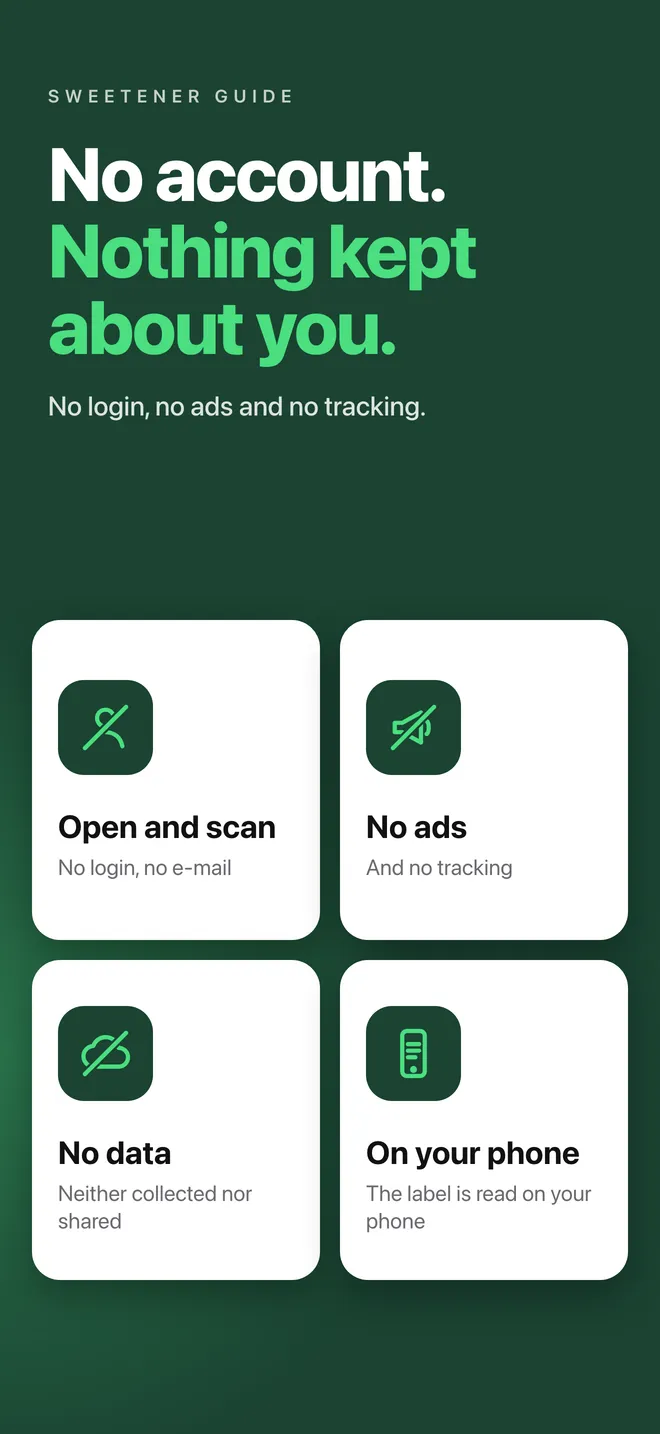
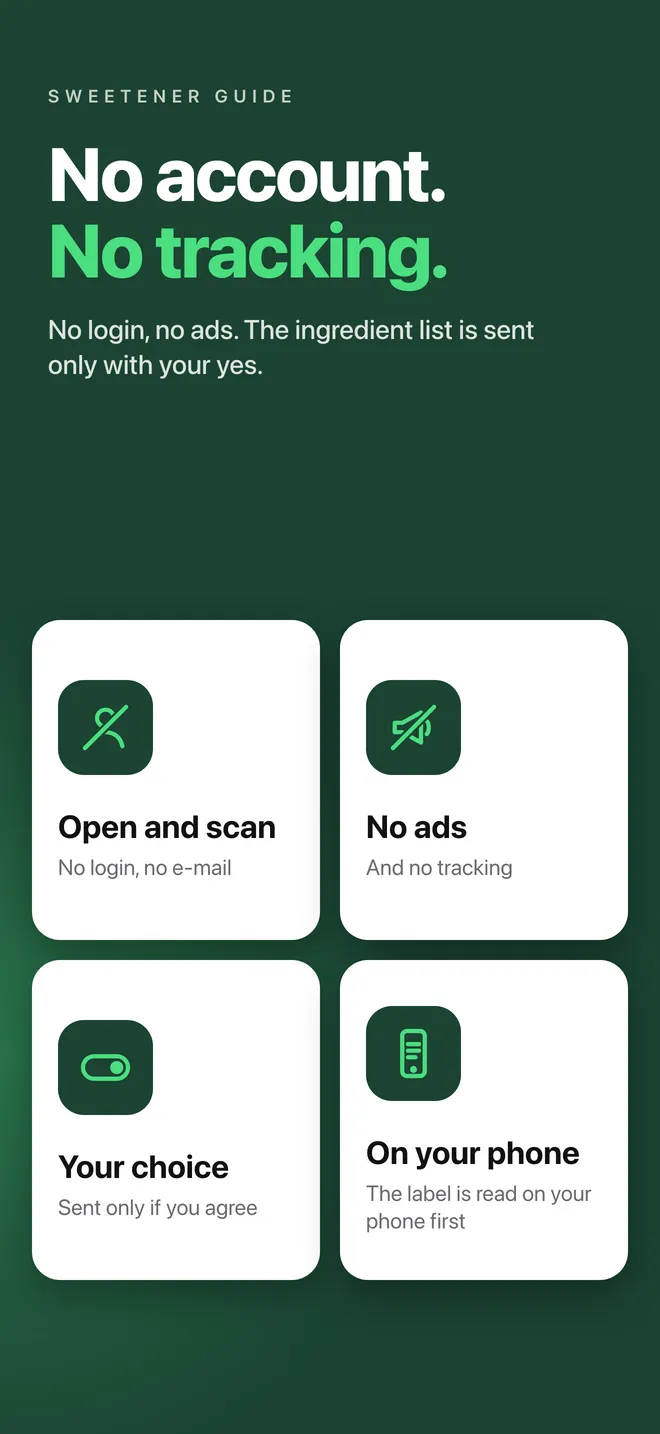
Describe the app as version 1.1 has it
The front page said the photo never leaves the phone and that there is no
server. With the extra check of the ingredient list in 1.1 that is only true
without the customer's yes, so the first trust card, the note under the cards
and the offline card now say what is sent, and that it is sent only on a yes.
Step three speaks of the effect on blood sugar, as the app does.

The gallery shows the current App Store frames, and frame 5's alt text follows
its new caption. The privacy policy says the app asks after the first scan,
not when the scanner first opens. The support page no longer says the app
sends nothing by itself.

Changed region(s): [[0.0606, 0.1534, 0.8182, 0.3068], [0.0909, 0.675, 0.3939, 0.8591], [0.6667, 0.8285, 0.697, 0.8591]]

diff --git a/privacy-i18n.js b/privacy-i18n.js
@@ -7,7 +7,7 @@ window.pageTranslations = {
     metaDescription: "What The Sweetener Guide does and does not collect, in plain language.",
     backToSite: "Back to the front page",
     legalTitle: "Privacy policy",
-    legalUpdated: "Last updated 13 November 2026",
+    legalUpdated: "Last updated 14 November 2026",
     legalSummary:
       "The short version: the app reads the ingredient list on your phone, and we never learn what you scanned. If you say yes to the extra check of the ingredient list, the ingredient list — the photo and the text the app read — is sent to an AI service that reads it again, and the app sends anonymous statistics about how the scan went. Without your yes, nothing about your scans leaves your phone unless you send us feedback yourself. The detail is below.",
     s1Title: "Who is responsible",
@@ -26,7 +26,7 @@ window.pageTranslations = {
       "The request carries no identifier: no account, no device ID, no advertising ID. As the host, GitHub handles the request technically and can see the IP address it came from and the time it arrived, under its own privacy statement. We never see any of it, and there is nothing in the request that says anything about you or what you scanned.",
     s3dTitle: "Extra check of the ingredient list (only with your yes)",
     s3dBody:
-      "The first time you open the scanner, the app asks whether you would like an extra check of the ingredient list. If you say yes, after each scan the photo of the ingredient list and the text the app read from it are sent to TypeSafe (typesafe.ai) in the USA, an AI service that reads the list again and answers which sweeteners and sugars it names. The answer is used only to find what the app would otherwise have missed. Your name, email address, location and anything else about you are not sent, and the photo is used only to read the label. TypeSafe states in its own privacy policy that what it receives is not used to train its models.",
+      "After your first scan, the app asks whether you would like an extra check of the ingredient list. If you say yes, after each scan the photo of the ingredient list and the text the app read from it are sent to TypeSafe (typesafe.ai) in the USA, an AI service that reads the list again and answers which sweeteners and sugars it names. The answer is used only to find what the app would otherwise have missed. Your name, email address, location and anything else about you are not sent, and the photo is used only to read the label. TypeSafe states in its own privacy policy that what it receives is not used to train its models.",
     s3dBody2:
       "The ingredient list goes through our own server at Cloudflare, which checks that the request comes from a genuine copy of the app (using Apple's App Attest) and passes it on. Our server keeps neither the photo nor the text. You can turn the extra check off at any time in Settings → “Extra check of the ingredient list”. Nothing more is sent, and the app works as before.",
     s3eTitle: "Anonymous statistics (only with your yes)",
@@ -87,7 +87,7 @@ window.pageTranslations = {
     metaDescription: "Hvad Sødeguiden indsamler og ikke indsamler, i et almindeligt sprog.",
     backToSite: "Tilbage til forsiden",
     legalTitle: "Privatlivspolitik",
-    legalUpdated: "Senest opdateret 13. november 2026",
+    legalUpdated: "Senest opdateret 14. november 2026",
     legalSummary:
       "Kort fortalt: Appen læser ingredienslisten på din telefon, og vi får ikke at vide, hvad du har scannet. Siger du ja til ekstra kontrol af ingredienslisten, sendes ingredienslisten — billedet og den tekst, appen har læst — til en AI-tjeneste, der læser den en gang til, og appen sender anonym statistik om, hvordan scanningen gik. Uden dit ja forlader intet om dine scanninger din telefon, medmindre du selv sender os feedback. Detaljerne står nedenfor.",
     s1Title: "Hvem er ansvarlig",
@@ -106,7 +106,7 @@ window.pageTranslations = {
       "Forespørgslen indeholder ingen identifikator: ingen konto, intet enheds-id, intet annonce-id. Som vært håndterer GitHub forespørgslen teknisk og kan se, hvilken IP-adresse den kom fra, og hvornår den kom, efter deres egen privatlivspolitik. Vi ser det aldrig, og der er intet i forespørgslen, der siger noget om dig eller om, hvad du har scannet.",
     s3dTitle: "Ekstra kontrol af ingredienslisten (kun med dit ja)",
     s3dBody:
-      "Første gang du åbner scanneren, spørger appen, om du vil have ekstra kontrol af ingredienslisten. Siger du ja, sendes billedet af ingredienslisten og den tekst, appen har læst fra det, efter hver scanning til TypeSafe (typesafe.ai) i USA, en AI-tjeneste, der læser listen en gang til og svarer, hvilke sødestoffer og sukkerarter den nævner. Svaret bruges kun til at finde det, appen ellers ville have overset. Der sendes ikke dit navn, din e-mailadresse, din placering eller andet om dig, og billedet bruges kun til at læse etiketten. TypeSafe oplyser i sin egen privatlivspolitik, at det, den modtager, ikke bruges til at træne dens modeller.",
+      "Efter din første scanning spørger appen, om du vil have ekstra kontrol af ingredienslisten. Siger du ja, sendes billedet af ingredienslisten og den tekst, appen har læst fra det, efter hver scanning til TypeSafe (typesafe.ai) i USA, en AI-tjeneste, der læser listen en gang til og svarer, hvilke sødestoffer og sukkerarter den nævner. Svaret bruges kun til at finde det, appen ellers ville have overset. Der sendes ikke dit navn, din e-mailadresse, din placering eller andet om dig, og billedet bruges kun til at læse etiketten. TypeSafe oplyser i sin egen privatlivspolitik, at det, den modtager, ikke bruges til at træne dens modeller.",
     s3dBody2:
       "Ingredienslisten sendes gennem vores egen server hos Cloudflare, som tjekker, at forespørgslen kommer fra en ægte udgave af appen (med Apples App Attest), og sender den videre. Vores server gemmer hverken billedet eller teksten. Du kan slå ekstra kontrol fra når som helst under Indstillinger → »Ekstra kontrol af ingredienslisten«. Så sendes der intet mere, og appen virker som før.",
     s3eTitle: "Anonym statistik (kun med dit ja)",

diff --git a/script.js b/script.js
@@ -28,7 +28,7 @@ const translations = {
     frameAlt4:
       "You get the facts. You decide. A result telling you to check carbohydrates and sugars on the pack.",
     frameAlt5:
-      "No account. Nothing kept about you. No login, no ads, no data collected.",
+      "No account. No tracking. No login, no ads. The ingredient list is sent only with your yes.",
     frameAlt6:
       "Try it on your own groceries. The first 10 scans are free.",
     howKicker: "How it works",
@@ -42,20 +42,20 @@ const translations = {
       "Hold the label in good light and keep the text inside the frame.",
     stepThreeTitle: "Check the result",
     stepThreeText:
-      "The app shows what it found and a simple glucose impact bar, with the details behind it.",
+      "The app shows what it found and how it affects blood sugar, with the details behind it.",
     trustKicker: "Why you can rely on it",
     trustTitle: "Built to be trusted, not clever.",
-    trustOneTitle: "We never see what you scanned",
+    trustOneTitle: "Nothing is sent without your yes",
     trustOneText:
-      "The photo stays on your phone and your phone reads the text itself. There is no server for it to be sent to — the app only ever downloads the list. The photo leaves your phone only if you email it to us as feedback yourself.",
+      "Your phone reads the label itself, and we never learn what you scanned. The app can offer an extra check, where the photo and the text are sent to an AI service that reads the list once more. That happens only if you say yes, and you can turn it off in Settings.",
     trustTwoTitle: "Written by people who live with it",
     trustTwoText:
       "The list is put together by Danes with type 2 diabetes. The app always shows why an ingredient got its rating, so you can weigh up the reasoning yourself.",
     trustThreeTitle: "Works with no signal",
     trustThreeText:
-      "The whole list is built into the app. It works from the very first launch — at the back of a shop, in a basement freezer aisle, or on holiday.",
+      "The whole list is built into the app. It works from the very first launch — at the back of a shop, in a basement freezer aisle, or on holiday. Only the extra check needs a connection.",
     trustNote:
-      "The only figures we ever see are the aggregated download and usage counts that Apple and Google publish to every app in their stores. Nothing in them relates to what you scanned.",
+      "Besides the download and usage counts that Apple and Google give every app, we see anonymous statistics about how scans went, and only if you said yes to the extra check. They hold no photo, no text and nothing that identifies you.",
     downloadKicker: "Download",
     downloadTitle: "Install on your phone.",
     downloadText:
@@ -101,7 +101,7 @@ const translations = {
     frameAlt4:
       "Du får overblikket. Du vælger. Et resultat, der beder dig tjekke kulhydrat og sukkerarter på pakken.",
     frameAlt5:
-      "Ingen konto. Intet gemt om dig. Intet login, ingen reklamer, ingen data indsamlet.",
+      "Ingen konto. Ingen sporing. Ingen login, ingen reklamer. Ingredienslisten sendes kun med dit ja.",
     frameAlt6:
       "Prøv den på dine egne varer. De første 10 scanninger er gratis.",
     howKicker: "Sådan virker det",
@@ -115,20 +115,20 @@ const translations = {
       "Hold etiketten i godt lys, og sørg for at teksten er inden for rammen.",
     stepThreeTitle: "Tjek resultatet",
     stepThreeText:
-      "Appen viser, hvad den fandt, og en enkel blodsukkerbjælke med detaljerne bag.",
+      "Appen viser, hvad den fandt, og hvordan det påvirker blodsukkeret, med detaljerne bag.",
     trustKicker: "Derfor kan du stole på den",
     trustTitle: "Bygget til at være til at stole på.",
-    trustOneTitle: "Vi ser aldrig, hvad du har scannet",
+    trustOneTitle: "Intet sendes uden dit ja",
     trustOneText:
-      "Billedet bliver på din telefon, og telefonen læser selv teksten. Der er ingen server, det kan blive sendt til — appen henter kun listen. Billedet forlader kun din telefon, hvis du selv sender det til os som feedback på e-mail.",
+      "Telefonen læser selv etiketten, og vi får ikke at vide, hvad du har scannet. Appen kan tilbyde en ekstra kontrol, hvor billedet og teksten sendes til en AI-tjeneste, der læser listen en gang til. Det sker kun, hvis du siger ja, og du kan slå det fra i Indstillinger.",
     trustTwoTitle: "Skrevet af nogen, der selv lever med det",
     trustTwoText:
       "Listen er sat sammen af danskere med type 2-diabetes. Appen viser altid, hvorfor en ingrediens har fået sin vurdering, så du selv kan tage stilling til begrundelsen.",
     trustThreeTitle: "Virker uden signal",
     trustThreeText:
-      "Hele listen ligger i appen. Den virker fra allerførste start — bagest i butikken, ved frostvarerne i kælderen eller på ferien.",
+      "Hele listen ligger i appen. Den virker fra allerførste start — bagest i butikken, ved frostvarerne i kælderen eller på ferien. Kun den ekstra kontrol kræver forbindelse.",
     trustNote:
-      "De eneste tal, vi nogensinde ser, er de sammenlagte downloads og brugstal, som Apple og Google giver alle apps i deres butikker. Intet i dem handler om, hvad du har scannet.",
+      "Ud over de downloads og brugstal, som Apple og Google giver alle apps, ser vi anonym statistik om, hvordan scanningerne gik, og kun hvis du har sagt ja til ekstra kontrol. Den indeholder hverken billede, tekst eller noget, der kan identificere dig.",
     downloadKicker: "Download",
     downloadTitle: "Installer på din telefon.",
     downloadText:

diff --git a/index.html b/index.html
@@ -160,8 +160,8 @@
               <div>
                 <h3 data-i18n="stepThreeTitle">Check the result</h3>
                 <p data-i18n="stepThreeText">
-                  The app shows what it found and a simple glucose impact bar, with the
-                  details behind it.
+                  The app shows what it found and how it affects blood sugar, with
+                  the details behind it.
                 </p>
               </div>
             </li>
@@ -184,12 +184,13 @@
                   <path d="m9 12 2.2 2.2L15.5 10" stroke="currentColor" stroke-width="1.7" stroke-linecap="round" stroke-linejoin="round"/>
                 </svg>
               </span>
-              <h3 data-i18n="trustOneTitle">We never see what you scanned</h3>
+              <h3 data-i18n="trustOneTitle">Nothing is sent without your yes</h3>
               <p data-i18n="trustOneText">
-                The photo stays on your phone and your phone reads the text
-                itself. There is no server for it to be sent to — the app only
-                ever downloads the list. The photo leaves your phone only if you
-                email it to us as feedback yourself.
+                Your phone reads the label itself, and we never learn what you
+                scanned. The app can offer an extra check, where the photo and
+                the text are sent to an AI service that reads the list once
+                more. That happens only if you say yes, and you can turn it off
+                in Settings.
               </p>
             </article>
 
@@ -220,15 +221,16 @@
               <p data-i18n="trustThreeText">
                 The whole list is built into the app. It works from the very
                 first launch — at the back of a shop, in a basement freezer
-                aisle, or on holiday.
+                aisle, or on holiday. Only the extra check needs a connection.
               </p>
             </article>
           </div>
 
           <p class="trust-note" data-i18n="trustNote">
-            The only figures we ever see are the aggregated download and usage
-            counts that Apple and Google publish to every app in their stores.
-            Nothing in them relates to what you scanned.
+            Besides the download and usage counts that Apple and Google give
+            every app, we see anonymous statistics about how scans went, and
+            only if you said yes to the extra check. They hold no photo, no
+            text and nothing that identifies you.
           </p>
         </div>
       </section>

diff --git a/support-i18n.js b/support-i18n.js
@@ -54,7 +54,7 @@ window.pageTranslations = {
 
     q9Title: "Your data",
     q9Body:
-      "The app has no account and sends us nothing by itself, so there is nothing to delete unless you have emailed us. If you have, write and we will show you what we have or delete it.",
+      "The app has no account, and nothing it sends can be traced to you, so there is nothing of yours to delete unless you have emailed us. If you have, write and we will show you what we have or delete it. The privacy policy describes what the extra check sends when you have said yes.",
     q9Link: "Read the privacy policy",
   },
 
@@ -110,7 +110,7 @@ window.pageTranslations = {
 
     q9Title: "Dine data",
     q9Body:
-      "Appen har ingen konto og sender ikke selv noget til os, så der er intet at slette, medmindre du har skrevet til os. Har du det, så skriv, og vi viser dig, hvad vi har, eller sletter det.",
+      "Appen har ingen konto, og intet af det, den sender, kan føres tilbage til dig, så der er intet om dig at slette, medmindre du har skrevet til os. Har du det, så skriv, og vi viser dig, hvad vi har, eller sletter det. I privatlivspolitikken står, hvad den ekstra kontrol sender, når du har sagt ja.",
     q9Link: "Læs privatlivspolitikken",
   },
 };

diff --git a/privacy.html b/privacy.html
@@ -68,7 +68,7 @@
         </a>
 
         <h1 data-i18n="legalTitle">Privacy policy</h1>
-        <p class="legal-updated" data-i18n="legalUpdated">Last updated 13 November 2026</p>
+        <p class="legal-updated" data-i18n="legalUpdated">Last updated 14 November 2026</p>
 
         <p class="legal-summary" data-i18n="legalSummary">
           The short version: the app reads the ingredient list on your
@@ -127,7 +127,7 @@
 
         <h3 data-i18n="s3dTitle">Extra check of the ingredient list (only with your yes)</h3>
         <p data-i18n="s3dBody">
-          The first time you open the scanner, the app asks whether you
+          After your first scan, the app asks whether you
           would like an extra check of the ingredient list. If you say
           yes, after each scan the photo of the ingredient list and the
           text the app read from it are sent to TypeSafe (typesafe.ai)

diff --git a/support.html b/support.html
@@ -163,9 +163,11 @@
 
         <h2 data-i18n="q9Title">Your data</h2>
         <p data-i18n="q9Body">
-          The app has no account and sends us nothing by itself, so there is
-          nothing to delete unless you have emailed us. If you have, write and
-          we will show you what we have or delete it.
+          The app has no account, and nothing it sends can be traced to you,
+          so there is nothing of yours to delete unless you have emailed us.
+          If you have, write and we will show you what we have or delete it.
+          The privacy policy describes what the extra check sends when you
+          have said yes.
         </p>
         <p>
           <a class="legal-link" href="privacy.html" data-i18n="q9Link">
